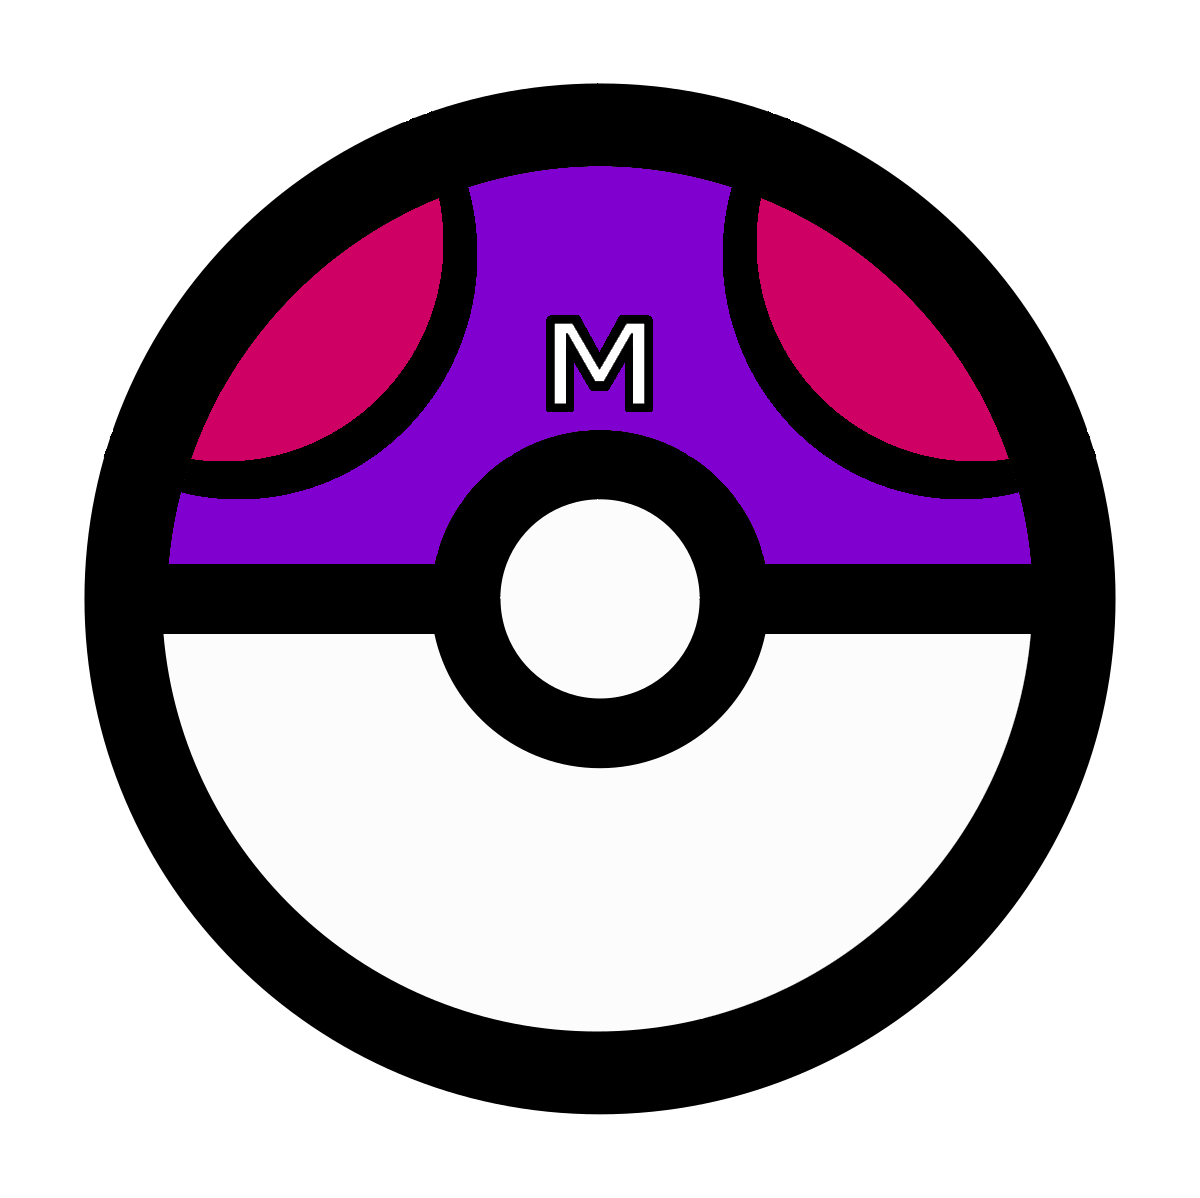
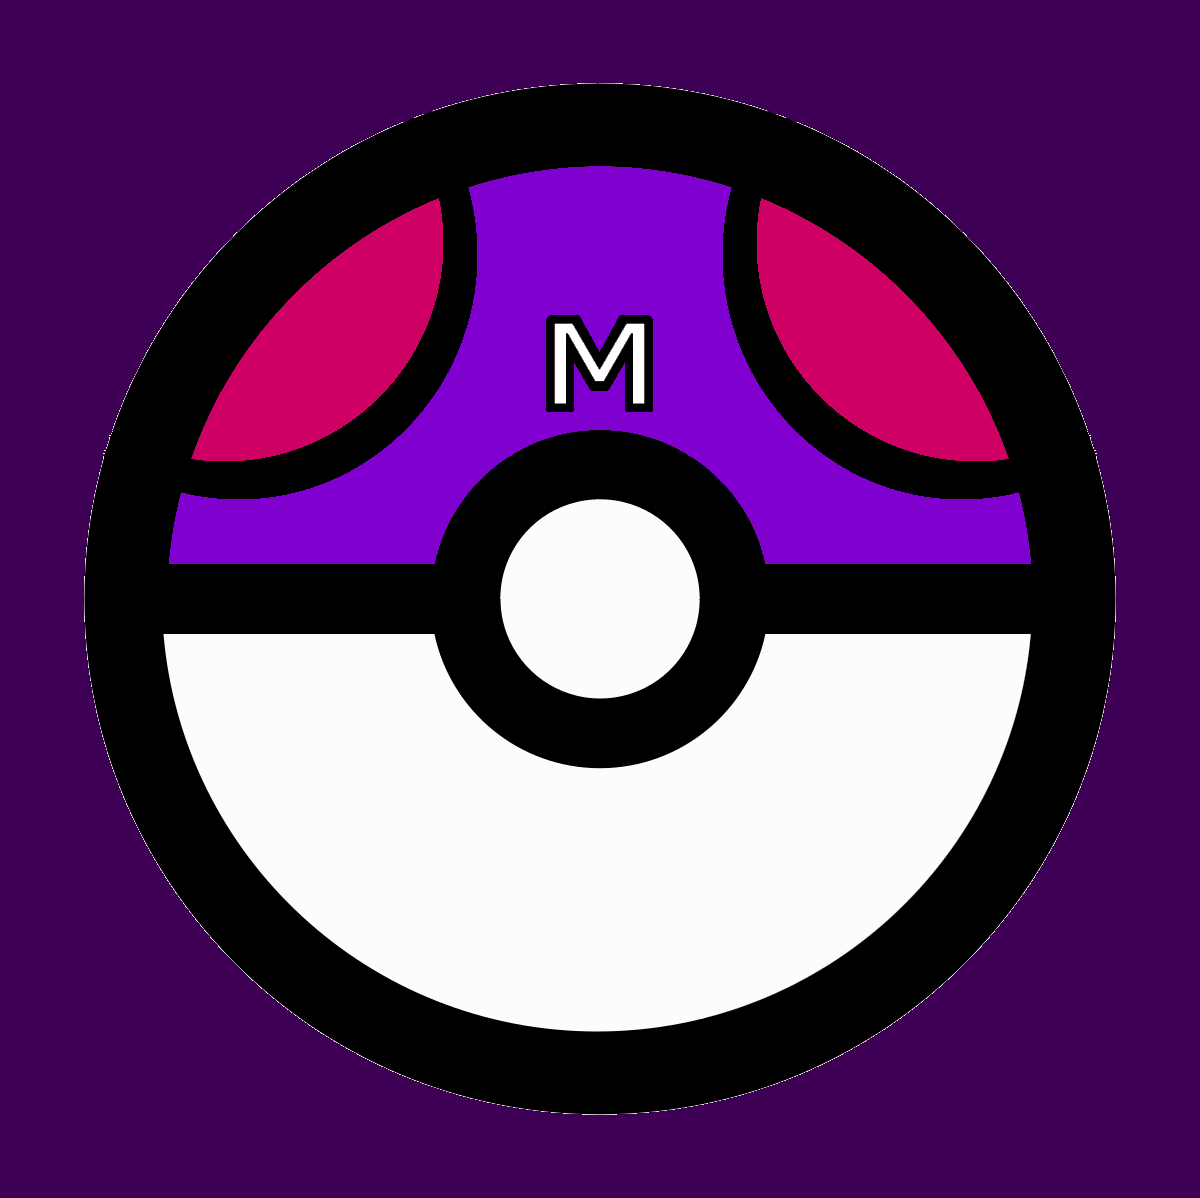
cambie estylos y cambie la imagen master ball

diff --git a/styles/style.css b/styles/style.css
@@ -91,11 +91,11 @@ body {
 }
 
 .modo-claro {
-    background-color: azure;
+    background-color: rgb(255, 255, 255);
 }
 
 .modo-oscuro {
-    background-color: rgb(0, 0, 67);
+    background-color: rgb(62, 0, 85);
 }
 
 #logout {
@@ -113,7 +113,7 @@ nav {
 
 
 .modo-claro .login-box  {
-    background-color:rgb(0, 0, 67);
+    background-color:rgb(126, 0, 0);
     color: white;
     margin-top: 50px;
     padding: 10px;
